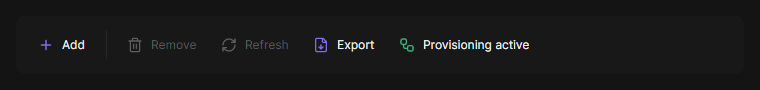
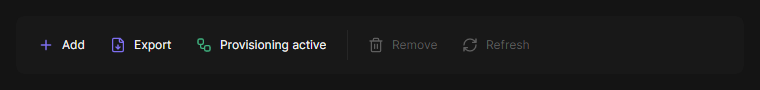
feat(devices): the toolbar puts what needs no selection first: Add, Export, Provisioning | Remove, Refresh

Changed region(s): [[0.1211, 0.4, 0.6961, 0.6]]

diff --git a/tests/Oadm.Client.Tests/ToolbarPluginTests.cs b/tests/Oadm.Client.Tests/ToolbarPluginTests.cs
@@ -30,7 +30,7 @@ public sealed class ToolbarPluginTests
         var toolbar = new DeviceToolbar(BuiltInToolbarPlugins.All, registry, NullLogger<DeviceToolbar>.Instance);
 
         Assert.Equal(
-            ["a.first", "oadm.toolbar.add", "oadm.toolbar.remove", "oadm.toolbar.refresh", "oadm.toolbar.export", "oadm.toolbar.tasks", "z.plugin", "oadm.toolbar.release-notes"],
+            ["a.first", "oadm.toolbar.add", "oadm.toolbar.export", "oadm.toolbar.remove", "oadm.toolbar.refresh", "oadm.toolbar.tasks", "z.plugin", "oadm.toolbar.release-notes"],
             toolbar.Plugins.Select(p => p.Id).ToArray());
     }
 
@@ -110,19 +110,20 @@ public sealed class ToolbarPluginTests
             f.Devices.Toolbar.AttachTo(panel, f.Devices.ToolbarContext);
             Dispatcher.UIThread.RunJobs();
 
-            // Scan Scan-IP-range Add-manually | Remove | (tasks: none yet, separator hidden) | Sample, AXIS OS - Release Notes
+            // Add Export | Remove Refresh | (tasks: none yet, separator hidden) | Sample, AXIS OS - Release Notes
             ToolbarButton[] buttons = panel.Children.OfType<ToolbarButton>().ToArray();
-            Assert.Equal(["Add", "Remove", "Refresh", "Export", "Sample (0)", "AXIS OS - Release Notes"], buttons.Select(b => b.Text ?? "").ToArray());
+            Assert.Equal(["Add", "Export", "Remove", "Refresh", "Sample (0)", "AXIS OS - Release Notes"], buttons.Select(b => b.Text ?? "").ToArray());
             Assert.Contains("main", buttons[0].Classes); // the main command, flat like the others (Fluent, decision 2026-10-25)
             Assert.Contains("toolbar", buttons[0].Classes);
-            Assert.Contains("toolbar", buttons[1].Classes);
+            Assert.Contains("toolbar", buttons[2].Classes);
             Assert.NotNull(buttons[0].Label.Icon);
             var addMenu = Assert.IsType<MenuFlyout>(buttons[0].Flyout); // Add: one menu with the five ways to add devices
             Assert.Equal(["Discovery", "Network range", "Add manually", "Import from file", "Import from ADM"], addMenu.Items.OfType<MenuItem>().Select(i => i.Header as string ?? string.Empty).ToArray());
             ToolbarSeparator[] separators = panel.Children.OfType<ToolbarSeparator>().ToArray();
             Assert.Equal(3, separators.Length);
             Assert.Equal([true, false, true], separators.Select(s => s.IsVisible).ToArray());
-            Assert.False(buttons[1].IsEnabled); // Remove needs a selection
+            Assert.True(buttons[1].IsEnabled); // Export needs no selection (Add group: what needs none)
+            Assert.False(buttons[2].IsEnabled); // Remove needs a selection
 
             await f.SetPluginsAsync(
                 TestSupport.WithReason(TestSupport.Plugin("oadm.restart", "Restart", toolbar: true, dialog: false, "1"), "The device does not answer", "2"),
@@ -136,7 +137,7 @@ public sealed class ToolbarPluginTests
             f.Select("1");
             Assert.True(restart.IsEnabled);
             Assert.Null(ToolTip.GetTip(restart));
-            Assert.True(buttons[1].IsEnabled);
+            Assert.True(buttons[2].IsEnabled);
             Assert.Equal("Sample (1)", buttons[4].Text);
             f.Select("1", "2");
             Assert.False(restart.IsEnabled); // Restart cannot run on device 2

diff --git a/tests/Oadm.Plugins.Provisioning.Tests/Client/PageScreenshotTests.cs b/tests/Oadm.Plugins.Provisioning.Tests/Client/PageScreenshotTests.cs
@@ -304,10 +304,10 @@ public sealed class PageScreenshotTests
             var entries = new Oadm.Sdk.Client.IToolbarPlugin[]
             {
                 new Oadm.Client.Devices.Toolbar.AddToolbarPlugin(),
-                new Oadm.Client.Devices.Toolbar.RemoveToolbarPlugin(),
-                new Oadm.Client.Devices.Toolbar.RefreshToolbarPlugin(),
                 new Oadm.Client.Devices.Toolbar.ExportToolbarPlugin(),
                 new ProvisioningToolbarPlugin { Dialogs = new FakeProvisioningDialogs() },
+                new Oadm.Client.Devices.Toolbar.RemoveToolbarPlugin(),
+                new Oadm.Client.Devices.Toolbar.RefreshToolbarPlugin(),
             };
             var bar = new StackPanel { Orientation = Avalonia.Layout.Orientation.Horizontal, Spacing = 4 };
             foreach (var entry in entries)
@@ -325,7 +325,7 @@ public sealed class PageScreenshotTests
             window.Show();
             await Oadm.Sdk.Testing.Eventually.TrueAsync(() => plugin.CallsOf(ProvisioningMethods.State) >= 1, "the state");
             Headless.Pump();
-            var button = (ToolbarButton)bar.Children[^1];
+            var button = bar.Children.OfType<ToolbarButton>().Single(b => b.Text == Oadm.Sdk.Client.DeviceTexts.Provisioning);
             Assert.Equal(Oadm.Sdk.Client.DeviceTexts.Provisioning, button.Text);
             Assert.DoesNotContain("ok", button.Classes);
             Assert.True(button.IsEffectivelyEnabled);

diff --git a/tests/Oadm.Plugins.Provisioning.Tests/Client/ToolbarAndRunAgainTests.cs b/tests/Oadm.Plugins.Provisioning.Tests/Client/ToolbarAndRunAgainTests.cs
@@ -137,7 +137,7 @@ public sealed class ToolbarAndRunAgainTests
     public void The_toolbar_entry_sits_right_of_export_for_users_who_may_see_provisioning()
     {
         var plugin = new ProvisioningToolbarPlugin();
-        Assert.Equal(ToolbarGroup.Manage, plugin.Group);
+        Assert.Equal(new Oadm.Client.Devices.Toolbar.ExportToolbarPlugin().Group, plugin.Group);
         Assert.True(plugin.Order > new Oadm.Client.Devices.Toolbar.ExportToolbarPlugin().Order);
         Assert.Equal("oadm.provisioning:show", plugin.RequiredPermission);
     }

diff --git a/src/Oadm.Sdk.Client/ToolbarPlugins.cs b/src/Oadm.Sdk.Client/ToolbarPlugins.cs
@@ -11,10 +11,10 @@ namespace Oadm.Sdk.Client;
 /// </summary>
 public enum ToolbarGroup
 {
-    /// <summary>Adding devices (Scan, Scan IP range, Add manually).</summary>
+    /// <summary>Adding devices and actions that need no selection (Add, Export, Provisioning).</summary>
     Add = 0,
 
-    /// <summary>Managing the selection (Remove).</summary>
+    /// <summary>Managing the selection (Remove, Refresh).</summary>
     Manage = 1,
 
     /// <summary>Task plugin actions (Restart, ...).</summary>

diff --git a/plugins/Oadm.Plugins.Provisioning.Client/ProvisioningToolbarPlugin.cs b/plugins/Oadm.Plugins.Provisioning.Client/ProvisioningToolbarPlugin.cs
@@ -17,7 +17,7 @@ public sealed class ProvisioningToolbarPlugin : IToolbarPlugin
     /// <summary>Right of Export (order 10) in the group of Remove, Refresh and Export.</summary>
     public int Order => 20;
 
-    public ToolbarGroup Group => ToolbarGroup.Manage;
+    public ToolbarGroup Group => ToolbarGroup.Add;
 
     public string? RequiredPermission => ProvisioningButtonViewModel.ShowPermission;
 

diff --git a/src/Oadm.Client/Devices/Toolbar/BuiltInToolbarPlugins.cs b/src/Oadm.Client/Devices/Toolbar/BuiltInToolbarPlugins.cs
@@ -193,7 +193,7 @@ public sealed class ExportToolbarPlugin : IToolbarPlugin
 
     public string? RequiredPermission => HostPermissionKeys.DevicesExport;
     public int Order => 10;
-    public ToolbarGroup Group => ToolbarGroup.Manage;
+    public ToolbarGroup Group => ToolbarGroup.Add;
 
     public Control CreateControl(IToolbarContext ctx)
     {

diff --git a/docs/spec/main-window.md b/docs/spec/main-window.md
@@ -39,8 +39,8 @@ hides some is cleared, the view selects the rows in one step with the ring above
 
 Layout, top to bottom:
 1. Title "Devices". Left navigation rail as described in [visual-style.md](visual-style.md).
-2. Toolbar: toolbar plugins (**Add** menu | Remove, Refresh, Export, **Provisioning** (plugin; **Provisioning active** with a
-   green icon while provisioning is on, [provisioning.md](provisioning.md)) | task plugin actions that declare `ShowInToolbar`,
+2. Toolbar: toolbar plugins (**Add** menu, Export, **Provisioning** (plugin; **Provisioning active** with a
+   green icon while provisioning is on, [provisioning.md](provisioning.md)): what needs no selection | Remove, Refresh | task plugin actions that declare `ShowInToolbar`,
    then System report (plugin) | plugin entries) in `ui:ToolbarOverflowPanel`: entries that do not fit (narrow
    window, live view open) move into a **More** menu (icon `more`, right of the toolbar). Right-aligned: the AXIS OS
    release notes link (icon only, toolbar controls with the class `trailing` go here), **Group by tag** icon button (icon

diff --git a/docs/spec/provisioning.md b/docs/spec/provisioning.md
@@ -44,8 +44,8 @@ changes nothing by itself: provisioning itself is **Off** until an Administrator
 
 ## Where it lives
 
-- **Devices toolbar**: a **Provisioning** button right of Export (`ProvisioningToolbarPlugin`, an `IToolbarPlugin` of the
-  plugin's client part, group Manage, order 20; it gets the plugin's context through `IToolbarContext.CorePluginContext`,
+- **Devices toolbar**: a **Provisioning** button right of Export, before the selection's actions (`ProvisioningToolbarPlugin`, an `IToolbarPlugin` of the
+  plugin's client part, group Add, order 20; it gets the plugin's context through `IToolbarContext.CorePluginContext`,
   SDK 0.15.0) opens **Provisioning management**. While provisioning is on, the button reads **Provisioning active** and its
   icon is green (the theme's `Button.toolbar.ok`, as the title bar's MyAxis cloud), live from the `status` event (read with
   `state` first). Users with "show" see the button; only an Administrator with "manage" opens the dialog (the others: the
